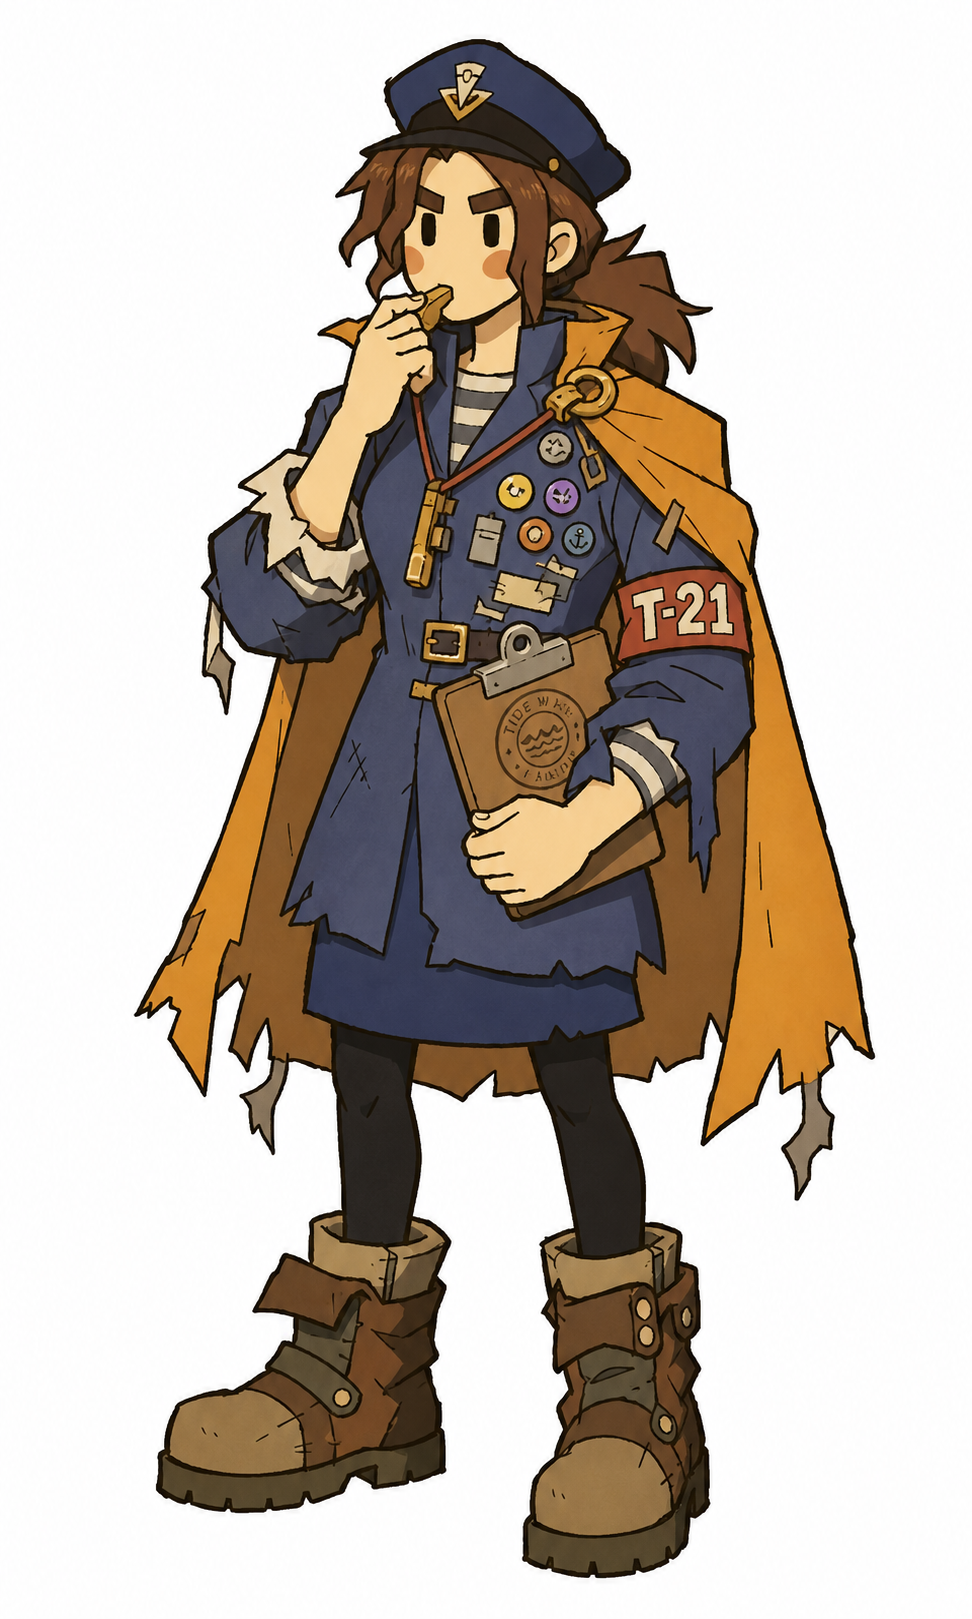
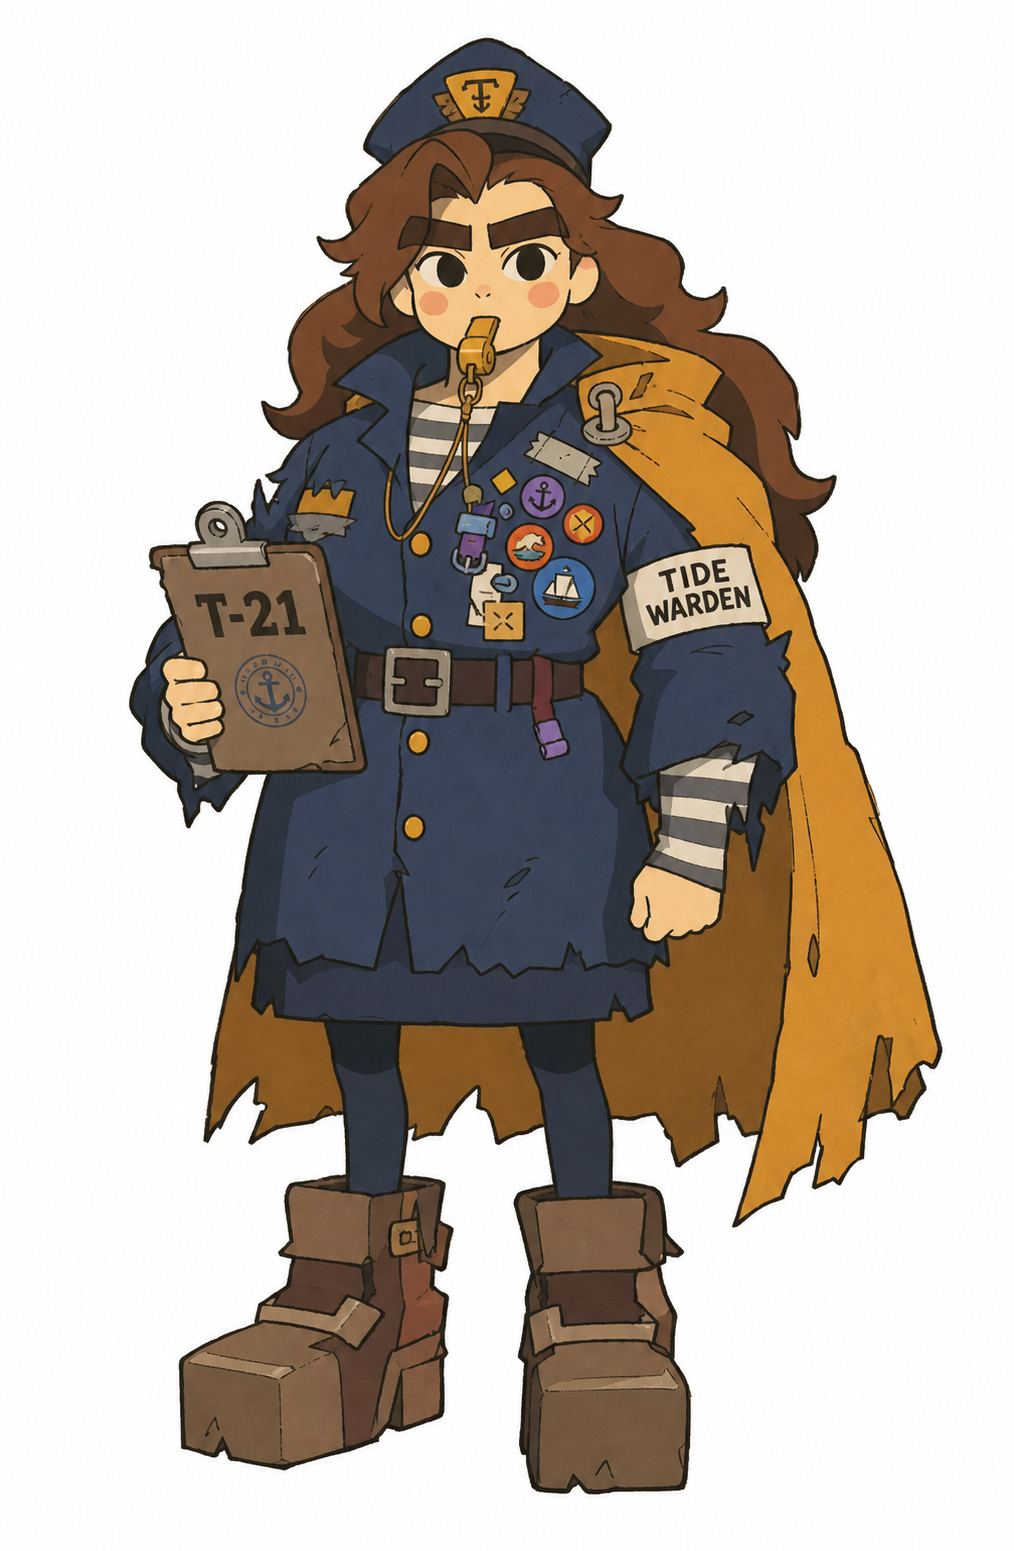
五官逐人不同：FACE 拆成 发色/眼睛/眉/招牌特征 四个独立槽位
问题：模板写死 two simple dark eye shapes，且排在夸张槽位之后直接覆盖，
六个角色一双眼，体现不出人物差别。

修法
- FACE 拆分：发色明确写出、EYES 从照片读眼型后放大、SIGNATURE 一处来自照片的
  特征放大两倍、其余保持极简
- 女性角色三处修复：清掉模板里写死的 he/his、上墨锚按性别年龄切换、加 WHO 性别槽位

四张真人照片验证：眯眼笑 / 大杏眼浓直眉 / 小眼重眉 / 笑成月牙，四张脸各不相同。

diff --git a/.claude/skills/rustide-artforge/references/art-design-direction.md b/.claude/skills/rustide-artforge/references/art-design-direction.md
@@ -406,3 +406,36 @@ the underside of the boots are each one solid darker shape.
 
 > 裙装 / 长发块 / 更圆的剪影是官图女性角色的常见语言。
 > **五头身、上重下轻、大靴这些画法常量不变**——女性角色一样是压缩比例，不要画成写实身材。
+
+---
+
+## 五官必须逐人不同 ⚠ 曾经所有角色一双眼
+
+模板里 `two simple dark eye shapes` 是**写死的**，而且排在夸张槽位**之后**，直接覆盖掉。
+结果六个角色一双眼，"体现不出人物形象上的差别"。
+
+而官图的眼睛差别极大：
+
+| 角色 | 眼睛 |
+|---|---|
+| 约翰 | 完全被胡子和墨镜吞掉 |
+| 阿尔瓦 | 一只大而圆的青色，另一只被绷带遮住 |
+| 所罗门 | 红蓝异色镜片 |
+| 伊莎贝尔 | 重眼睑、细长 |
+| 霍夫曼 | 圆眼镜后凸出 |
+| 珊 | 大圆黑眼 |
+| 威廉 | 下垂三白眼 |
+
+### 修法：FACE 拆成四个独立槽位
+
+```
+FACE:      发色（明确写出）+ 发型的形 + 遮挡
+EYES:      眼睛画法（从照片读眼型后放大）+ 眉毛画法
+SIGNATURE: 一个来自照片的最突出特征，放大约两倍
+其余      : 短嘴线 + 两块硬边腮红，别的都没有
+```
+
+**`SIGNATURE` 是"像不像本人"的唯一承重点。** 不要求五官都还原，
+但**必须有一处来自照片、并且夸张到两倍**。
+
+实测四张真人照片：眯眼笑 / 大杏眼配浓直眉 / 小眼被重眉压 / 笑成月牙——四张脸终于各不相同。
